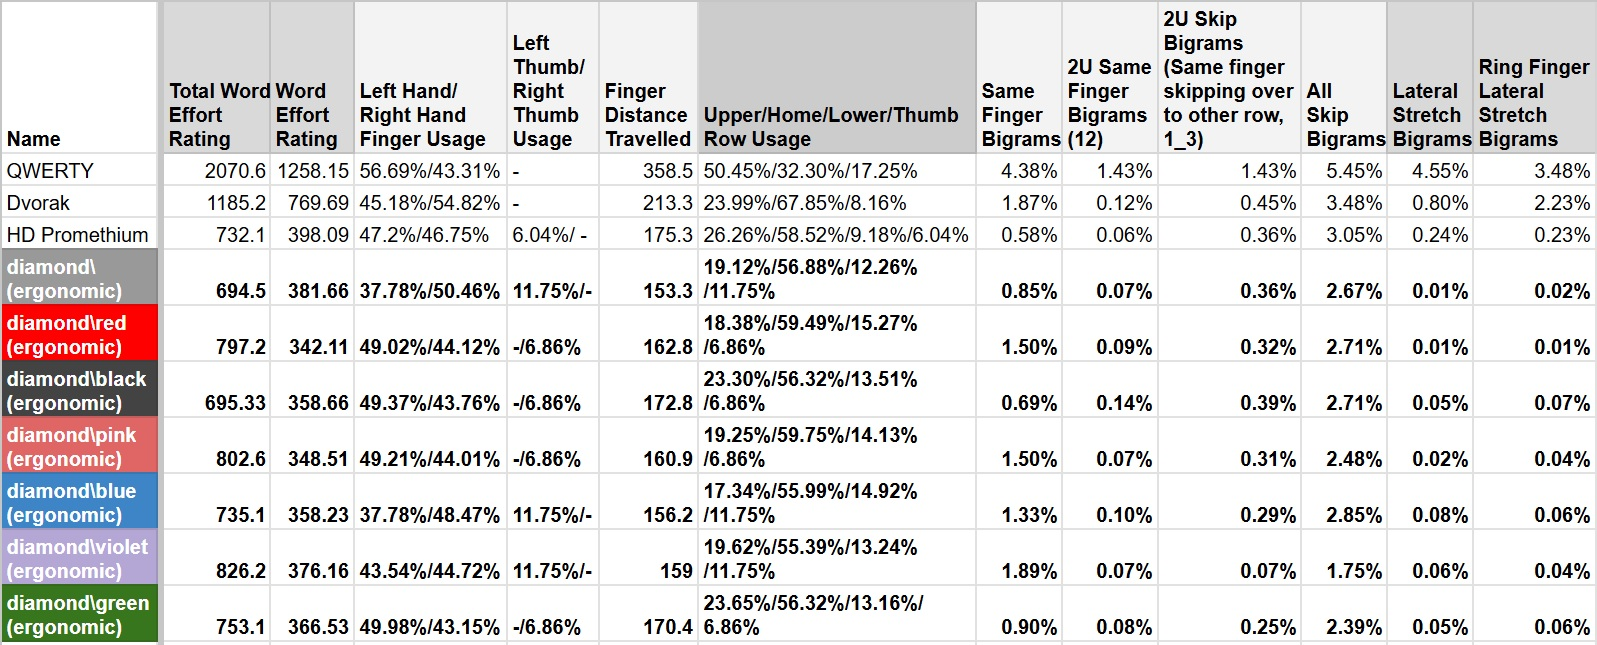
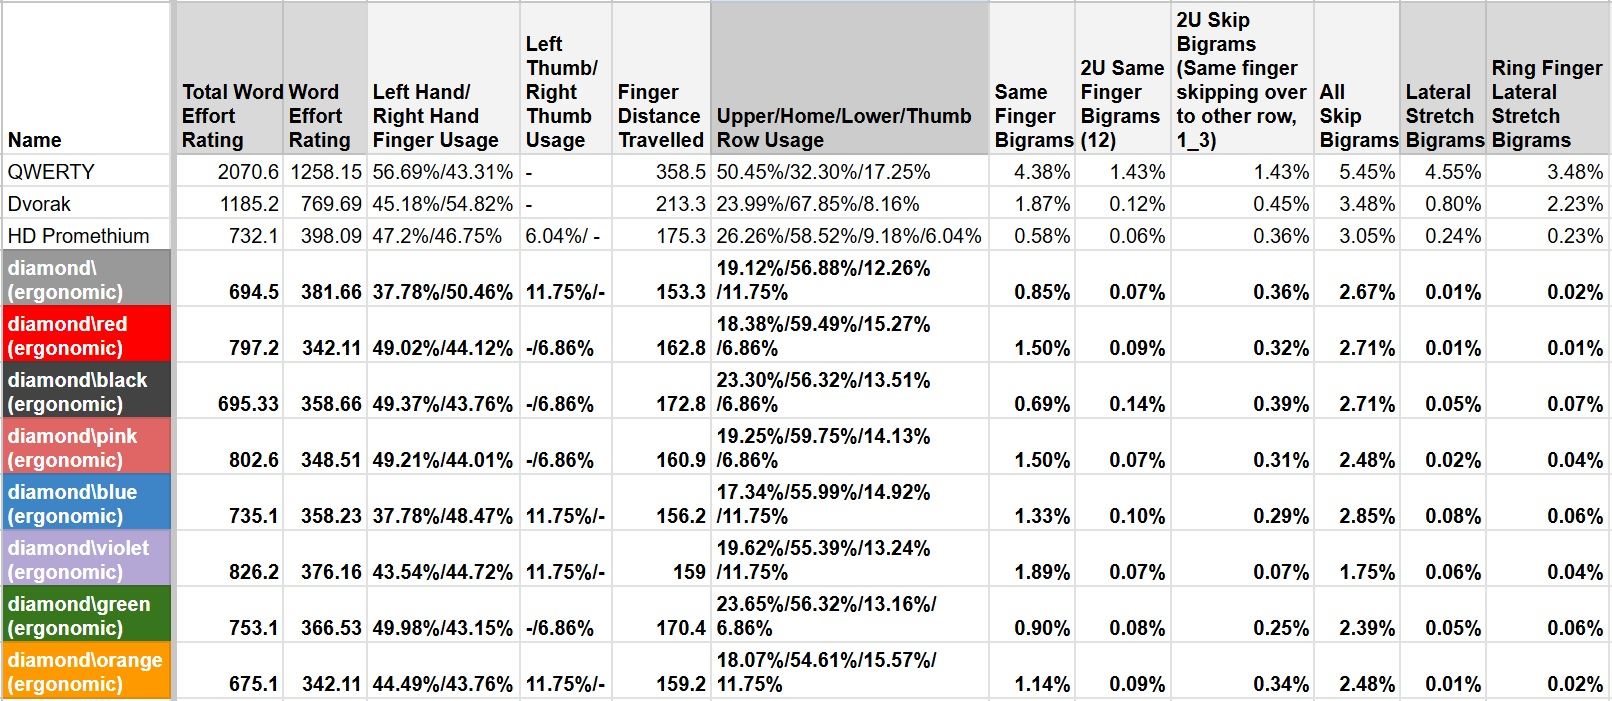
added diamond\orange ergonomic (there is no row-staggered version) updated all related images and readme

diff --git a/proof_of_concepts/diamond_backslash_orange ergonomic version/description.md b/proof_of_concepts/diamond_backslash_orange ergonomic version/description.md
@@ -1,0 +1,27 @@
+# diamond\orange ergonomic version
+
+The diamond\orange mirroring keyboard layout can only work with ergonomic keyboards hence there is no row-staggered version because this keyboard layout strictly requires a thumb key for the letter 'E' to work.
+
+Here is a screenshot of the layout by using the analytical data from the webpage [created by cyanophage on github.](https://cyanophage.github.io/)
+
+![image of diamond\\orange ergonomic version heatmap](https://raw.githubusercontent.com/r134x7/diamond_backslash/refs/heads/main/images/diamond_backslash_orange_ergonomic_heatmap.jpg)
+
+![image of diamond\\orange ergonomic version bigram frequency](https://raw.githubusercontent.com/r134x7/diamond_backslash/refs/heads/main/images/diamond_backslash_orange_ergonomic_bigram_frequency.jpg)
+
+Note that you cannot remap keys on the above image, only swap them around.
+
+This keyboard layout was designed to see if I could reach the lowest word effort rating and lowest total word rating efforts possible on the analytical website from cyanophage on GitHub already listed above.
+
+Its word effort rating matches that of diamond\red ergonomic but also reaches a total word effort rating even lower than diamond\black ergonomic.
+
+Therefore, it has the lowest word effort and total word effort scores out of all the diamond\ mirroring keyboard layouts.
+
+Since HD Promethium was an ergonomic keyboard layout I mentioned in the backstory of my readme in the repository, here are screenshots to show a comparison between HD Promethium and all of the diamond\ mirroring keyboard layout ergonomic versions:
+
+(The analytical data below came from the webpage [created by cyanophage on github.](https://cyanophage.github.io/))
+
+![image of diamond\\ ergonomic version part 1](https://raw.githubusercontent.com/r134x7/diamond_backslash/refs/heads/main/images/keyboard_stats_11.jpg)
+![image of diamond\\ ergonomic version part 2](https://raw.githubusercontent.com/r134x7/diamond_backslash/refs/heads/main/images/keyboard_stats_12.jpg)
+![image of diamond\\ ergonomic version part 3](https://raw.githubusercontent.com/r134x7/diamond_backslash/refs/heads/main/images/keyboard_stats_13.jpg)
+![image of diamond\\ ergonomic version part 4](https://raw.githubusercontent.com/r134x7/diamond_backslash/refs/heads/main/images/keyboard_stats_14.jpg)
+![image of diamond\\ ergonomic version part 5](https://raw.githubusercontent.com/r134x7/diamond_backslash/refs/heads/main/images/keyboard_stats_15.jpg)

diff --git a/README.md b/README.md
@@ -4,7 +4,7 @@ diamond\ (read as diamond backslash) is a mirroring keyboard layout.
 
 Currently only works by using a kbd file with the program Kanata, the kanata.kbd file is located in the proof of concept folder. Please read the file as there are bugs listed in it.
 
-There are currently fourteen diamond\ mirroring keyboard layouts, seven that are optimized for row-staggered keyboards and seven that are optimized for ergonomic keyboards which you can view in the proof_of_concepts folder of this repository:
+There are currently fifteen diamond\ mirroring keyboard layouts, seven that are optimized for row-staggered keyboards, those same seven layouts then optimized for ergonomic keyboards and then one layout that only works on ergonomic keyboards which you can view in the proof_of_concepts folder of this repository:
 - diamond\
 - diamond\red
 - diamond\black
@@ -19,6 +19,7 @@ There are currently fourteen diamond\ mirroring keyboard layouts, seven that are
 - diamond\blue (ergonomic)
 - diamond\violet (ergonomic)
 - diamond\green (ergonomic)
+- diamond\orange (ergonomic)
 
 The kanata.kbd file is to be used with Kanata which was created by [jtroo, link to Kanata repo here: https://github.com/jtroo/kanata](https://github.com/jtroo/kanata)
 
@@ -316,6 +317,16 @@ Here is diamond\green
 This one is like diamond\violet but for those that prefer three vowels on the home row and low same finger bigrams like diamond\\ and diamond\\black.
 
 The kbd file for diamond\green is inside the proof of concepts folder under diamond_backslash_green
+
+## diamond\orange (ergonomic) mirroring keyboard layout
+
+This diamond\ mirroring keyboard layout is different because it can only work on ergonomic keyboards since it strictly requires the use of a thumb key assigned to the letter 'E' 
+
+Here is diamond\orange (ergonomic)
+
+![image of diamond\\orange ergonomic keyboard layout](https://raw.githubusercontent.com/r134x7/diamond_backslash/refs/heads/main/images/diamond_backslash_orange_ergonomic_heatmap.jpg)
+
+See the description file for diamond\orange (ergonomic) in the proof_of_concepts folder inside another folder titled "diamond_backslash_orange ergonomic version" in this repository.
 
 ## keyboard layout stats for all diamond\ mirroring keyboard layouts on row-staggered keyboards
 
